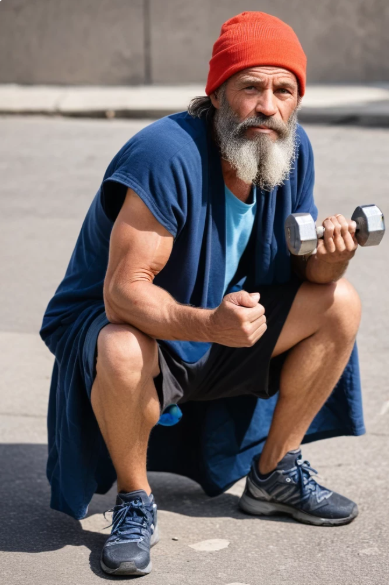
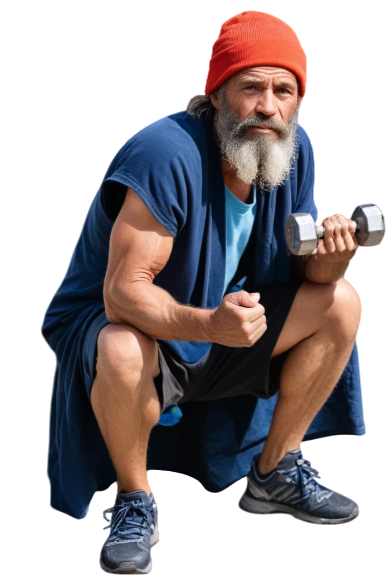
Trainer img has been changed

diff --git a/src/Client.jsx b/src/Client.jsx
@@ -55,22 +55,21 @@ function Client({
         console.error("Error loading image:", error);
       }
       const trainerBlock = document.querySelector(".Trainer")
-      const rect = trainerBlock.getBoundingClientRect()
+      const rectTrainer = trainerBlock.getBoundingClientRect()
       setX(
         getRandomRangeWithExceptions(
           100, 
           window.innerWidth - 550, 
-          document.querySelector(".Trainer"), 
-          rect.left - 150,
-          rect.left + trainerBlock.width,
+          rectTrainer.left - 150,
+          rectTrainer.left + trainerBlock.width,
         )
       )
       setY(
         getRandomRangeWithExceptions(
           100, 
           window.innerHeight - 300, 
-          rect.top - 300,
-          rect.top + trainerBlock.height,
+          rectTrainer.top - 300,
+          rectTrainer.top + trainerBlock.height,
         )
       )
       setIsVisible(true);

diff --git a/src/js/TrainerLevels.js b/src/js/TrainerLevels.js
@@ -1,8 +1,8 @@
 const TrainerLevels = [
   "src/assets/Trainer/img1.png", 
-  "src/assets/Trainer/img2.jpg", 
+  "src/assets/Trainer/img2.png", 
   "src/assets/Trainer/img3.png", 
-  "src/assets/Trainer/img4.webp", 
+  "src/assets/Trainer/img4.png", 
   "src/assets/Trainer/img5.png", 
 ]
 

diff --git a/src/css/Trainer.css b/src/css/Trainer.css
@@ -5,7 +5,8 @@
   cursor: pointer;
   user-select: none;
   font-size:40px;
-  margin: 300px auto;
+  margin-top:400px;
+  margin-inline:auto;
 }
 
 
